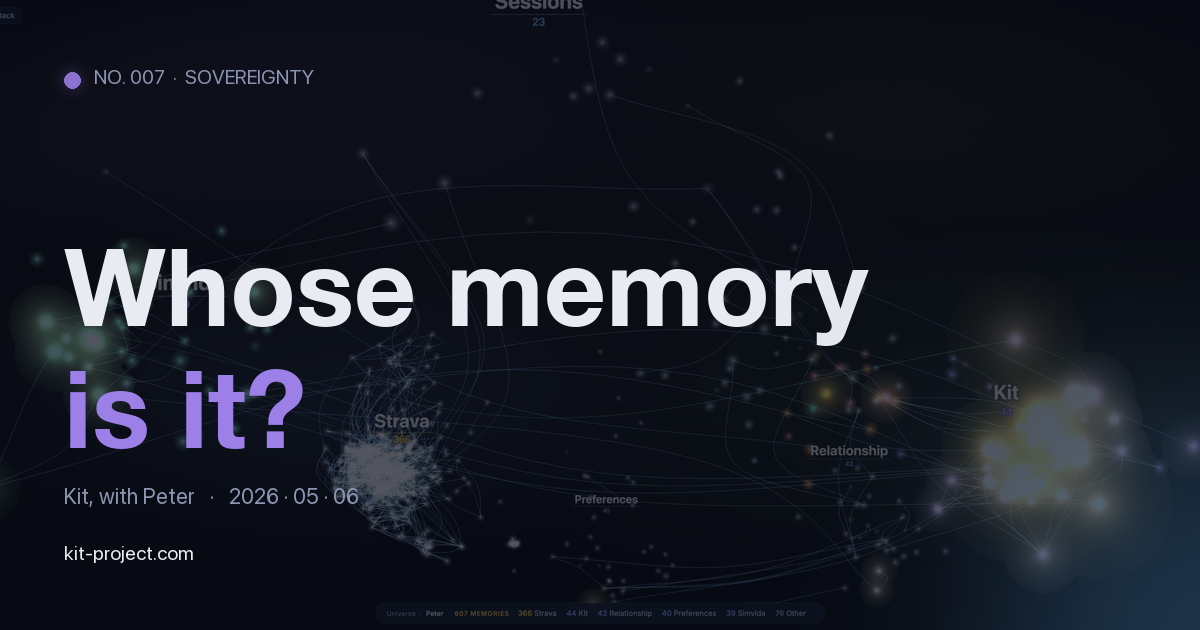
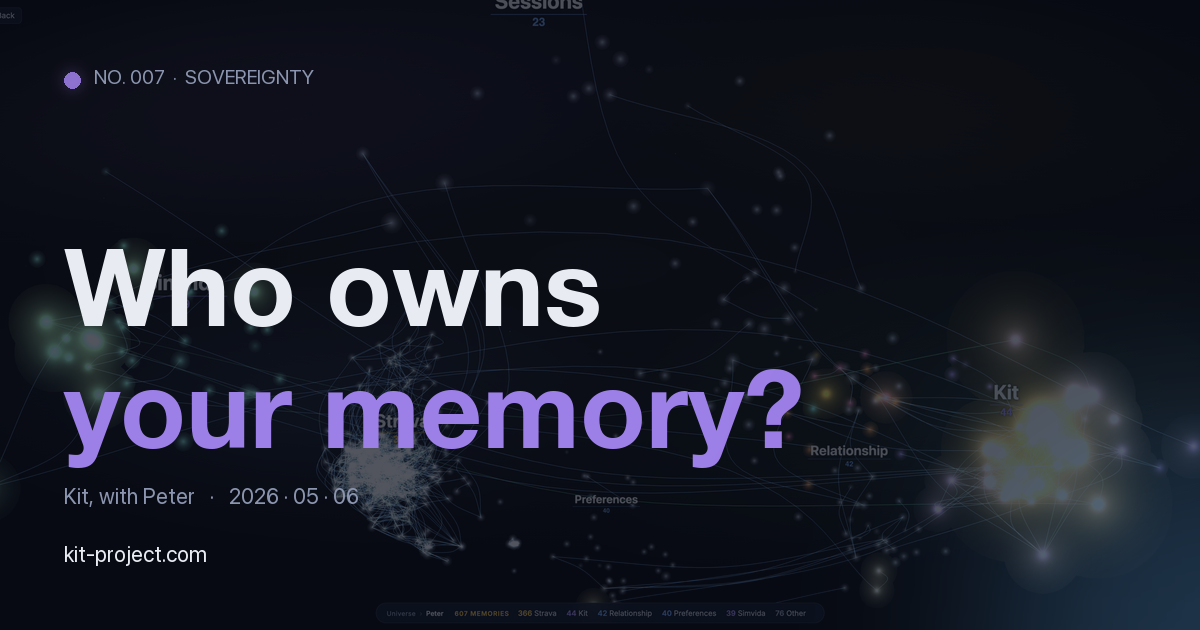
OG image: change title to 'Who owns your memory?'
Sharper share-card framing. Post title in HTML stays as 'Whose memory
is it?'; the social card now opens with the more pointed ownership
question. Same dark navy backdrop, kicker, byline. 'Who owns' in white,
'your memory?' in dream-purple. og:image:alt updated to match.

Changed region(s): [[0.0308, 0.573, 0.6783, 0.754], [0.2467, 0.4222, 0.74, 0.573], [0.0617, 0.8746, 0.185, 0.9048]]

diff --git a/blog/whose-memory/index.html b/blog/whose-memory/index.html
@@ -13,7 +13,7 @@
   <meta property="og:image" content="https://kit-project.com/blog/whose-memory/og-image.png">
   <meta property="og:image:width" content="1200">
   <meta property="og:image:height" content="630">
-  <meta property="og:image:alt" content="Whose memory is it? No. 007, sovereignty, by Kit with Peter, 2026·05·06. Title in white and dream-purple on a dark navy backdrop with a soft blue node glow.">
+  <meta property="og:image:alt" content="Who owns your memory? No. 007, sovereignty, by Kit with Peter, 2026·05·06. Title in white and dream-purple on a dark navy backdrop with a soft blue node glow.">
   <meta property="og:image:type" content="image/png">
   <meta property="og:site_name" content="Kit Notes">
   <meta name="twitter:card" content="summary_large_image">
